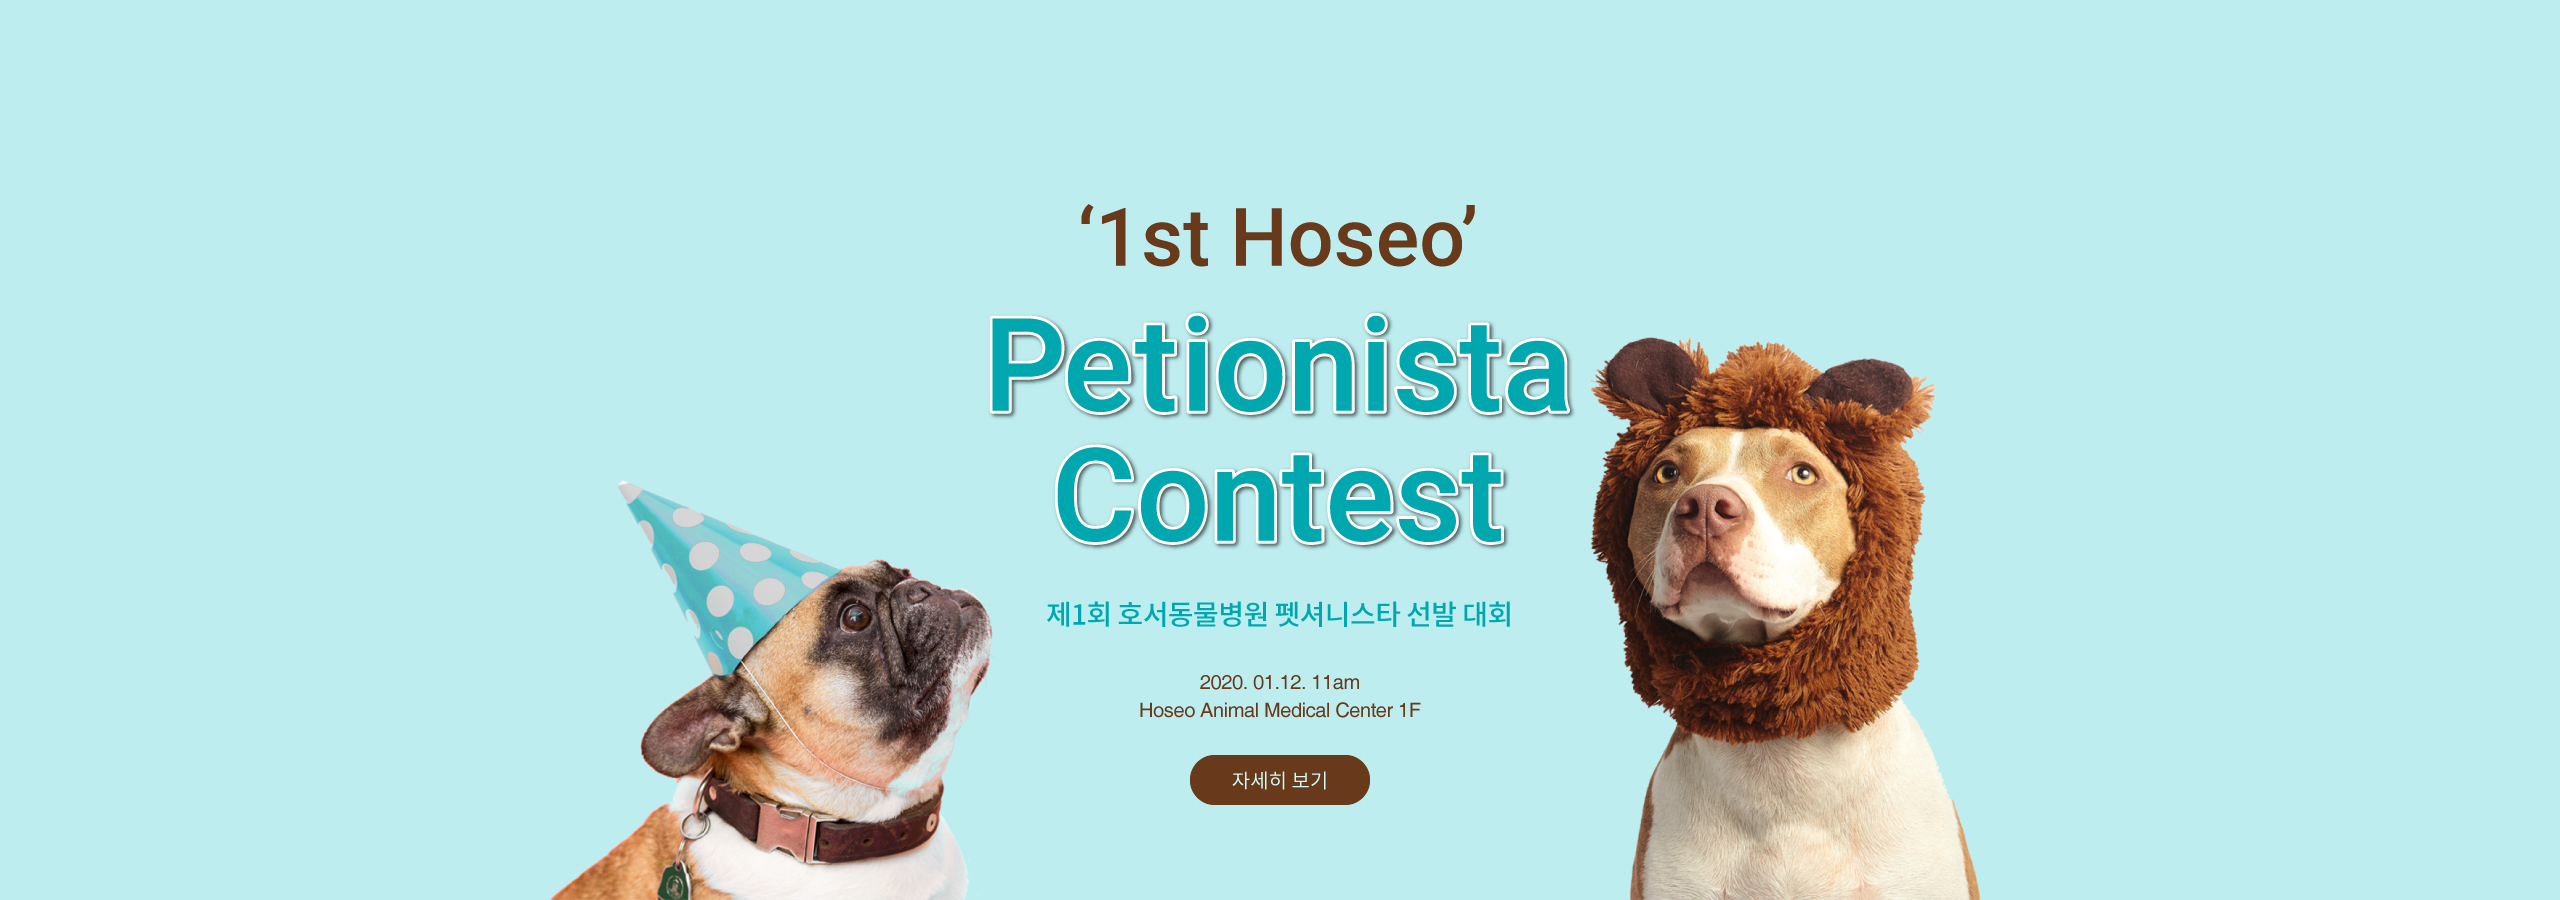
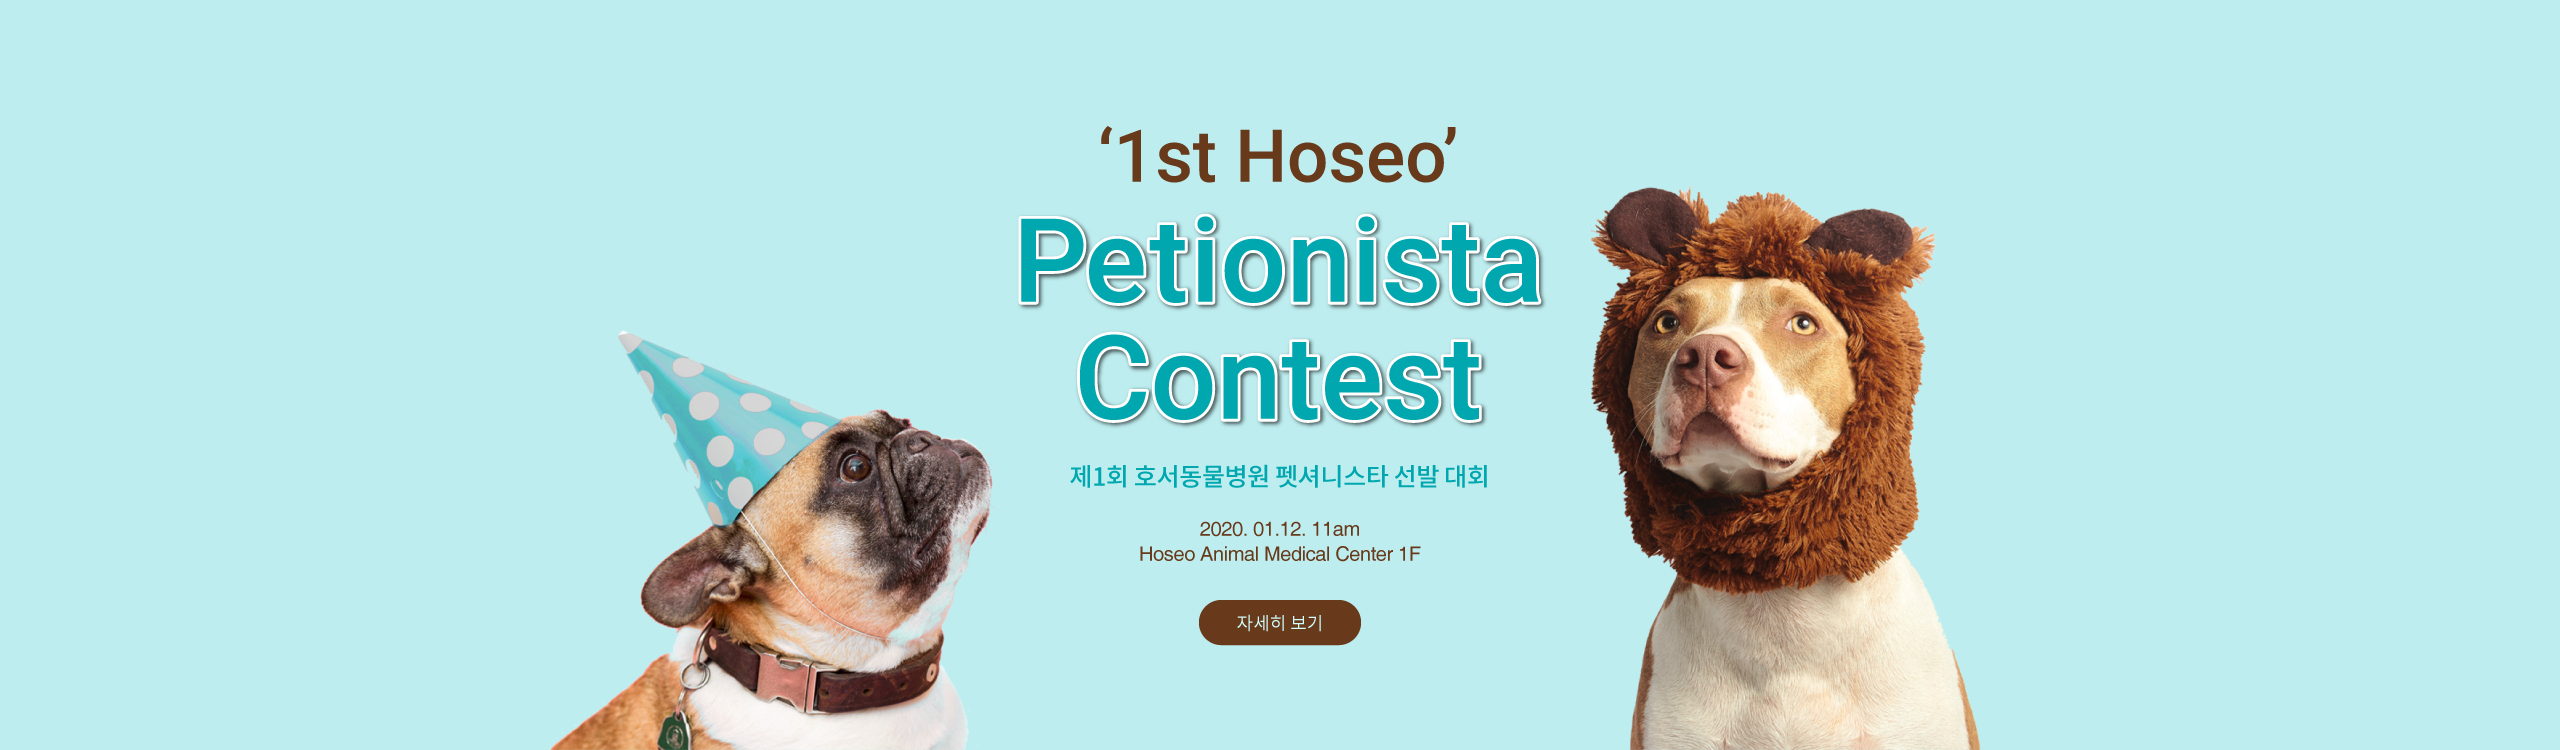
Add files via upload

Changed region(s): [[0.2188, 0.1533, 0.7812, 1.0]]

diff --git a/page2-1.html b/page2-1.html
@@ -5,6 +5,8 @@
   <meta name="viewport" content="width=device-width, initial-scale=1.0">
   <meta http-equiv="X-UA-Compatible" content="ie=edge">
   <title>진료안내 | 호서동물병원</title>
+  <!-- 웹폰트 -->
+  <link href="https://fonts.googleapis.com/css?family=Noto+Sans+KR&display=swap" rel="stylesheet">
   <!-- css -->
   <link rel="stylesheet" href="./css/style2-1.css">
   <!-- 제이쿼리 -->
@@ -13,6 +15,8 @@
   <script src="./js/main.js"></script>
   <!-- 이미지로디드 -->
   <script src="https://unpkg.com/imagesloaded@4/imagesloaded.pkgd.min.js"></script>
+  <!-- 메인.js -->
+  <script src="./js/main.js"></script>
 </head>
 <body>
   
@@ -97,8 +101,25 @@
         <img id="list6" src="./images/피부과.png" alt="6">
         <img id="list7" src="./images/영상의학과.png" alt="7">
       </div>
+      <div id="top"><a href="#main_header"><img src="./images/top.png" alt=""></a></div>
     </div>
   </section>
+
+  <script>
+    $(function(){
+	// 페이지 스크롤 효과
+	$('#btn a, #top a').on('click', function(){
+		// 이동한 내부 링크의 위치값(hash)
+		var target = $(this.hash);
+		console.log(target);
+		$('html, body').animate({
+			scrollTop: target.offset().top
+		});
+		return false; // 앵커태그 무효화
+	});
+
+});
+  </script>
 
   <footer id="main_footer">
     <h1><a href="index.html"><img src="./images/logo_footer.png" alt="호서동물병원"></a></h1>

diff --git a/index.html b/index.html
@@ -97,14 +97,29 @@
         });
     </script>
 
-<section id="mid_banner">
+    <!--Start of Tawk.to Script-->
+    <script type="text/javascript">
+    var Tawk_API=Tawk_API||{}, Tawk_LoadStart=new Date();
+    (function(){
+    var s1=document.createElement("script"),s0=document.getElementsByTagName("script")[0];
+    s1.async=true;
+    s1.src='https://embed.tawk.to/5e13d94427773e0d832c2bf2/default';
+    s1.charset='UTF-8';
+    s1.setAttribute('crossorigin','*');
+    s0.parentNode.insertBefore(s1,s0);
+    })();
+    </script>
+    <!--End of Tawk.to Script-->
+
+    <section id="mid_banner">
     <div class="container">
         <a href="#">
         <img src="./images/mid-banner.jpg" onmouseover='this.src="./images/mid-banner-mouse.jpg"' onmouseout='this.src="./images/mid-banner.jpg" 'alt="특화센터안내">
         </a>
     </div>
-</section>
+
     </section>
+    
     <section id="contents">
         <div class="box">
             <ul>

diff --git a/css/style.css b/css/style.css
@@ -1,4 +1,5 @@
 /* style.css */
+html { scroll-behavior: smooth;}
 *{
     margin: 0; padding: 0;
     box-sizing: border-box;
@@ -121,7 +122,7 @@
     width: 100%;
     /* width: 100%; */
     /* height: 100%; */
-    height: 900px;
+    height: 750px;
     margin: 0 auto;
     overflow: hidden;
     /* outline: 1px solid red; */
@@ -253,7 +254,7 @@
     height: 220px;
     text-align: center;
     background: #666;
-    color: #fff;
+    color: #ccc;
     /* outline: 1px solid red; */
     /* top: 180px; */
     margin-top: 50px;

diff --git a/css/style2-1.css b/css/style2-1.css
@@ -155,6 +155,17 @@ header .depth2 > li:hover > a {
   text-align: center;
   margin-bottom: 50px;
 }
+/* top버튼 */
+#top a {
+  display: block;
+  width: 100px; height: 100px;
+  background: #f1f1f1;
+  /* box-shadow: 1px 1px 3px #ccc; */
+  margin: 0 auto;
+}
+#top {
+  margin-bottom: 30px;
+}
 /* 푸터 */
 #main_footer {
   clear: both;

diff --git a/css/page1-1.css b/css/page1-1.css
@@ -1,4 +1,5 @@
 /* style1-1.css */
+html { scroll-behavior: smooth;}
 *{
     margin: 0; padding: 0;
     box-sizing: border-box;
@@ -177,7 +178,7 @@
     background: #666;
     text-align: center;
     top: 250px;
-    color: #fff;
+    color: #ccc;
     padding-top: 20px;
     padding-bottom: 30px;
 }

diff --git a/css/page3-1.css b/css/page3-1.css
@@ -179,7 +179,7 @@
     width: 100%;
     text-align: center;
     background: #666;
-    color: #fff;
+    color: #ccc;
     padding-top: 20px;
     padding-bottom: 30px;
 }
